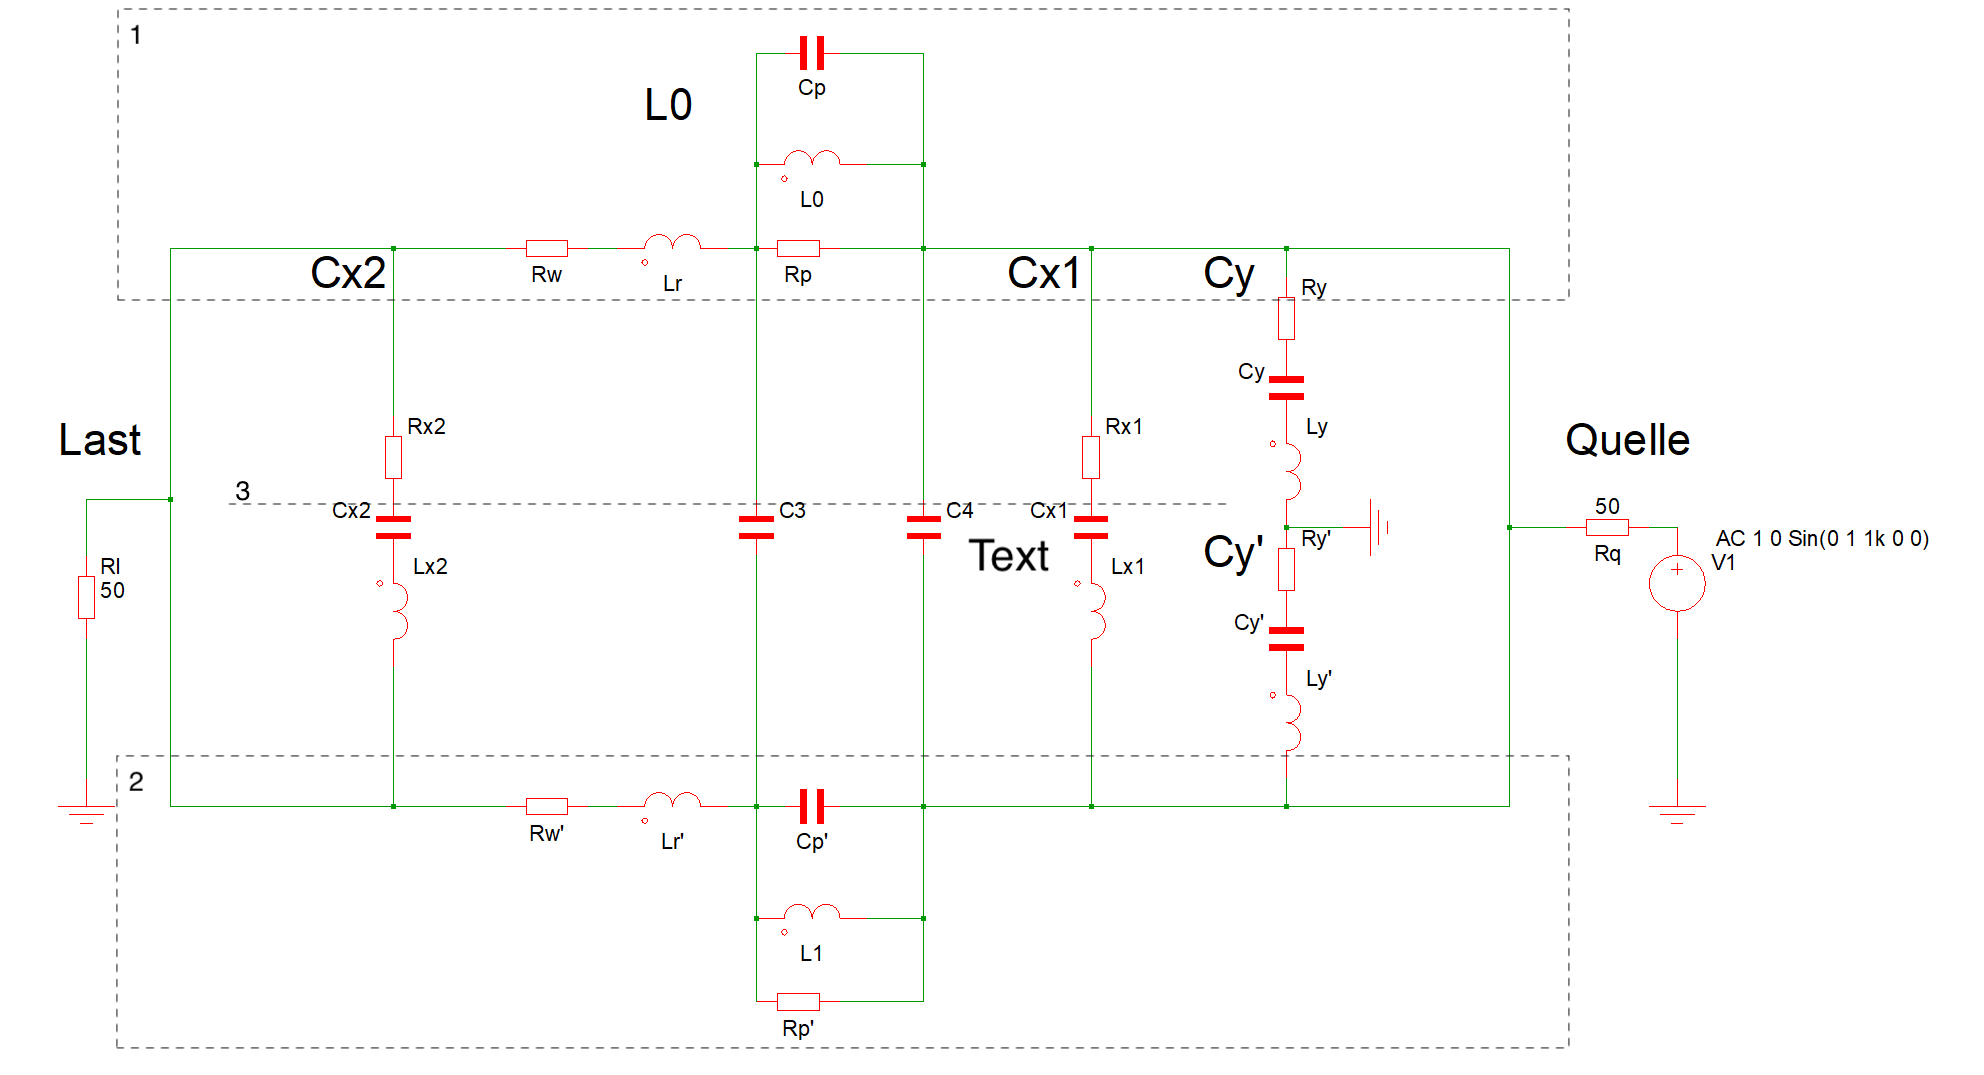
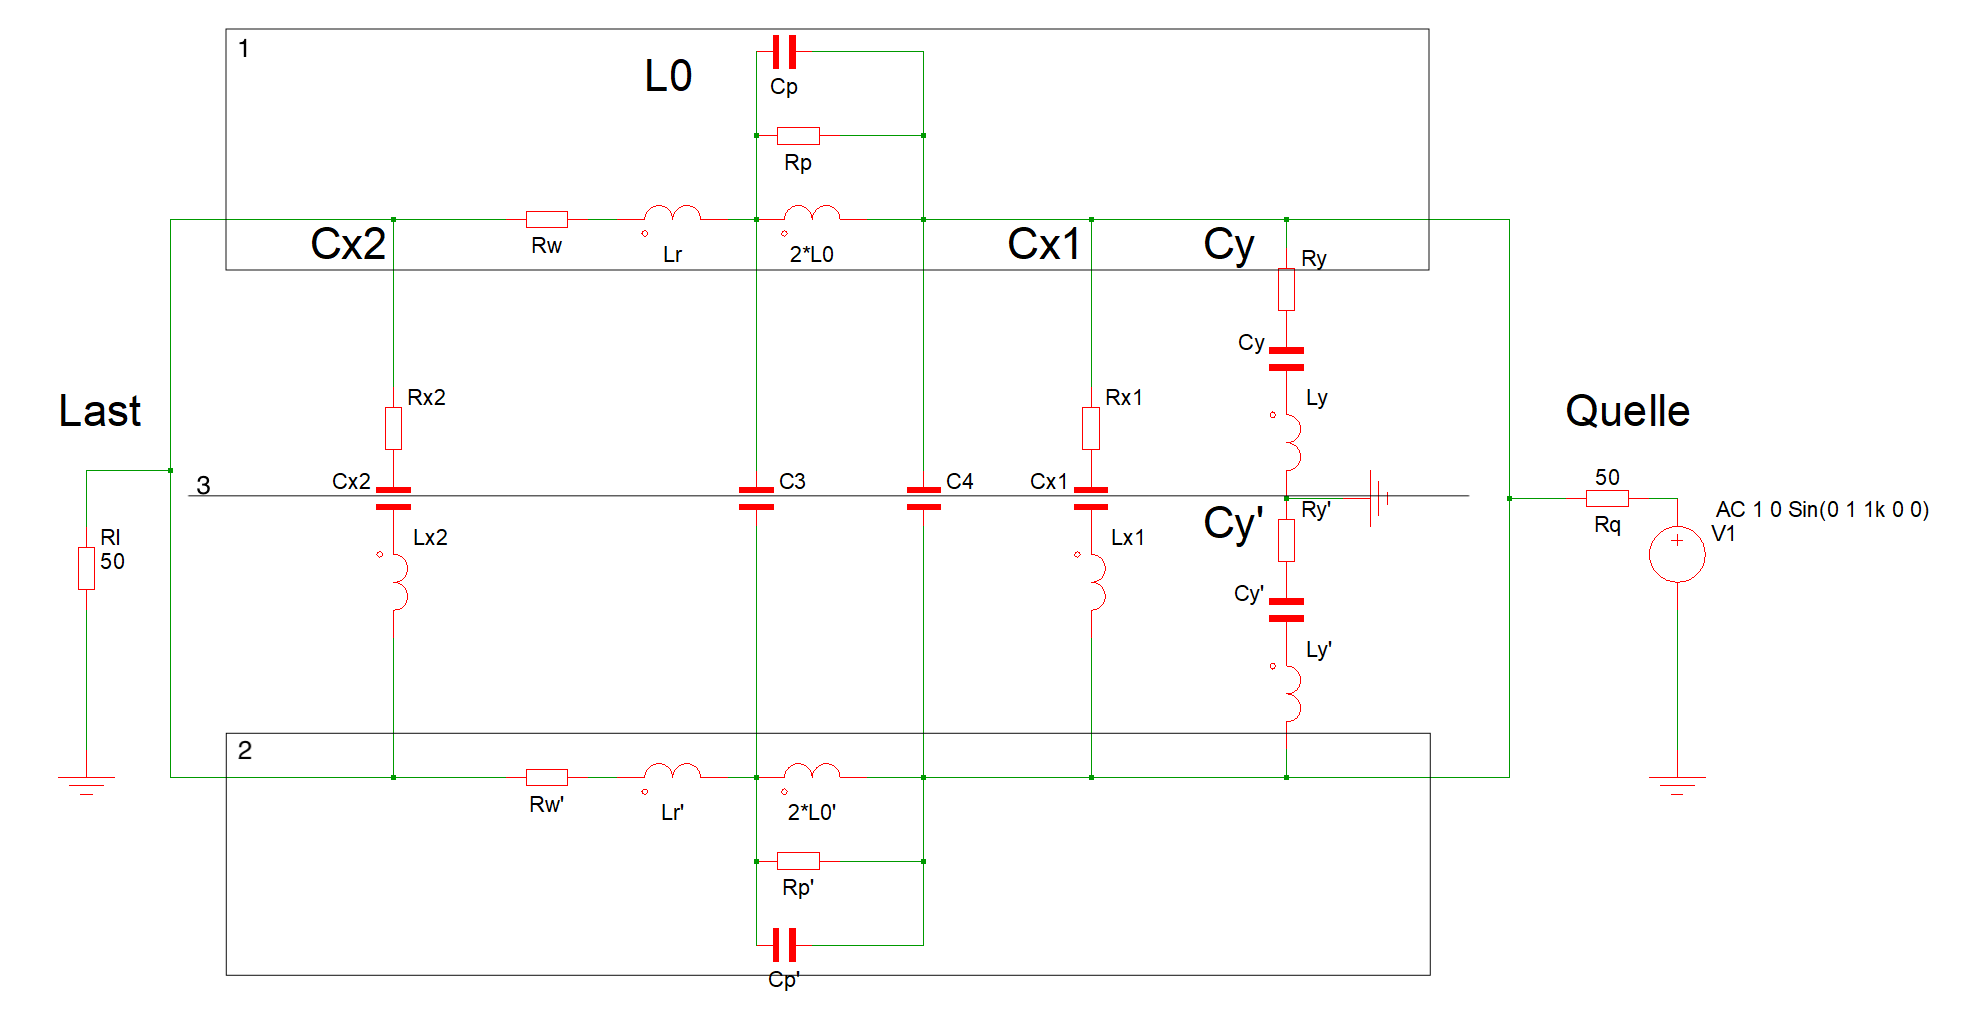
Teil Umsetzung komplett überarbeitet

diff --git a/Fachbericht/sections/3_Umsetzung/Umsetzung.tex b/Fachbericht/sections/3_Umsetzung/Umsetzung.tex
@@ -1,15 +1,11 @@
-\section{Umsetzung} \label{sec:umsetzung}
-Mithilfe der Grundlagen aus Kapitel 2\ref{sec:grundlagen} wird nun erläutert, wie aus der Schaltung des EMI-Filters mithilfe der Auftrennung in eine Gegentakt - und eine Gleichtaktschaltung die Einfügedämpfung(engl. Insertion Loss, IL) berechnet wird. 
-
-\subsection{Berechnung der Einfügedämpfung} \label{subsec:einfugedampfung}
-
-Die ursprüngliche Schaltung wird in eine Gleich- und Gegentschaltung aufgetrennt. Dieses Prinzip ist eine gängige Methode, da so Symmetrien entstehen, welche vereinfacht werden können. Für die beiden Ersatzschaltungen, werden jeweils als Kettenmatrizen \ref{Kettenmatrix} gebildet. Diese bestehen widerum aus Kettenmatrizen der einzelnen Längs- und Querimpedanzen. Aus der Kettenmatrix für die Ersatzschaltbilder wird mithilfe der Streuparameter direkt die Einfügungsdämpfung berechnet. Kettenmatrizen werden durch eine Kaskadierung vorgenommen, dies entspricht im wesentlichen der Matrixmultiplikation. \\
+\section{Ermitteln der Einfügedämpfung} \label{sec:umsetzung}
+In diesem Kapitel wird ausführlich beschrieben, wie aus den gegebenen Gleich- und Gegentaktschaltung (Verweis Aufgabenstellung) die Einfügedämpfung ermittelt wird. Um die einzelnen Schritte konsistent zu beschriebenen, wird an den entsprechenden Stellen Bezug auf die theoretischen Grundlagen Kapitel \ref{sec:Grundlagen} genommen. Der erste Abschnitt behandelt die Gleichtaktschaltung und in einem zweiten Abschnitt wird die Gegentaktschaltung behandelt. In diesen beiden Kapitel wird beschrieben, wie aus den Schaltungen aus der Aufgabenstellung die Kettenmatrizen der beiden Schaltungen ermittelt wird. Im Kapitel (verweis) ist beschrieben, wie aus den Kettenmatrizen die Einfügedämfung berechnet wird.
 
 
-\paragraph{Zusammenfassen der Schaltungen} \label{par:zusammenfassungSchaltung}
-Folgendes Kapitel zeigt Schritt für Schritt auf, wie die gegebenen Schaltungen vereinfacht werden können. Zudem wird beschrieben welche Komponenten vernachlässigt werden können. Der erste Abschnitt behandelt die Gleichtaktschaltung und in einem zweiten Abschnitt wird die Gegentaktschaltung behandelt.
+\subsection{Gleichtaktschaltung}\label{subsec:zusammenfassungGleichtakt}
+Um die Einfügedämpfung zu ermitteln, wird im ersten Schritt die Schaltung weitgehend vereinfacht. Die reduzierte Schaltung wird anhand der Kettenmatrix (siehe \ref{subsec:Kettenmatrix}) beschrieben. Aus der Kettenmatrix wird dann für den vorgegebenen Frequenzbereich die Einfügedämpung berechnet.
 
-\paragraph{Gleichtaktschaltung}\label{para:zusammenfassungGleichtakt}
+\paragraph{Reduktion der Schaltung}\label{para:redukGleichtakt}
 Abbildung \ref{fig:CMSchaltungOriginal} zeigt die Schaltung aus der Aufgabenstellung. 
 \begin{figure}[H]
 	\centering
@@ -17,22 +13,55 @@ Abbildung \ref{fig:CMSchaltungOriginal} zeigt die Schaltung aus der Aufgabenstel
 	\caption{Originale Gleichtaktschaltung\cite{aufgabenstellung}}
 	\label{fig:CMSchaltungOriginal}
 \end{figure}
-Die Originalschaltung ist mit den Komponenten $R_w$ und $L_r$ ergänzt worden, sodass sie symmetrisch ist(siehe Abbildung \ref{fig:CMSchaltungErgänzt}). Dies macht es möglich, dass die Schaltung zur Simulation wie folgt vereinfacht werden kann.
+Die Originalschaltung wird mit den Komponenten $R_w$ und $L_r$ ergänzt, sodass sie symmetrisch ist. Dies macht es möglich, dass die Schaltung weiter vereinfacht werden kann. Zudem wurden $C_1$ und $C_2$ in $C_p$ und $C'_p$ umbenannt um zu zeigen, dass es sich um die gleiche Kapazität handelt. Durch weglassen des Eisenkerns, wird $L_0$ und $L'_0$ mit dem Vorfaktor zwei ergänzt da sich die Magnetfelder überlagern. %TODO besser schreiben%
+Durch diese Änderungen ergibt sich die Schaltung in Abbildung \ref{fig:CMSchaltungErgänzt}.
 \begin{figure}[H]
 	\centering
 	\includegraphics[width = 15cm]{EMI_CMpretty1.png}
 	\caption{Ergänzte Gleichtaktschaltung}
 	\label{fig:CMSchaltungErgänzt}
 \end{figure}
-Da der obere (siehe Abbildung \ref{fig:CMSchaltungErgänzt}, Nr. 1) und untere Strang (siehe Abbildung \ref{fig:CMSchaltungErgänzt}, Nr. 2) identisch sind und es keinen Potentialunterschied zwischen ihnen gibt, kann die Schaltung, wie folgt, zusammen gefasst werden (siehe Abbildung \ref{fig:CMSchaltungvereinfacht}). Die Schaltung wird entlang der Symmetrie-Achse (siehe Abbildung \ref{fig:CMSchaltungErgänzt}, Nr. 3) aufgetrennt. Somit fallen die Kondensatoren $C_3$, $C_4$, $C_{x1}$ und $C_{x2}$ komplett weg. Die übrigen Komponenten von $L_0$ bilden eine Parallelschaltung, welche sich durch halbieren der Widerstände und Induktivitäten und verdoppeln der Kapazitäten zusammenfassen lässt. Zusätzlich werden die beiden $C_y$ und $C'_{y}$ parallel auf das Bezugspotential geschalten. Da $C_y$ und $C'_y$ identisch sind, werden sie wie in Abbildung \ref{fig:CMSchaltungvereinfacht} zusammengefasst. Diese vereinfachte Schaltung bildet die Grundlage für die Berechnungen der Software.
+ Der obere Strang(siehe Abbildung \ref{fig:CMSchaltungErgänzt}, Nr. 1) und untere Strang (siehe Abbildung \ref{fig:CMSchaltungErgänzt}, Nr. 2) sind identisch. Da es keinen Potentialunterschied zwischen ihnen gibt, kann die Schaltung entlang der Symmetrie-Achse (siehe Abbildung \ref{fig:CMSchaltungErgänzt}, Nr. 3) aufgetrennt werden. Dies ergibt die Schaltung in Abbildung \ref{fig:CMSchaltungaufgetrennt}.
+
 \begin{figure}[H]
 	\centering
 	\includegraphics[width = 10cm]{EMI_CMpretty2.png}
+	\caption{Aufgetrennte Gleichtaktschaltung}
+	\label{fig:CMSchaltungaufgetrennt}
+\end{figure}
+Komponenten die nicht mehr fest verbunden sind, fallen weg. Dies gilt für die Kondensatoren $C_3$, $C_4$, $C_{x1}$ und $C_{x2}$. Die weiter reduzierte Schaltung wird in Abbildung \ref{fig:CMSchaltungvereinfacht1} abgebildet.
+\begin{figure}[H]
+	\centering
+	\includegraphics[width = 10cm]{EMI_CMpretty3.png}
 	\caption{Vereinfachte Gleichtaktschaltung}
+	\label{fig:CMSchaltungvereinfacht1}
+\end{figure}
+Die übrigen Komponenten von $L_0$ bilden eine Parallelschaltung, welche sich durch halbieren der Widerstände und Induktivitäten und verdoppeln der Kapazitäten zusammenfassen lässt. Zusätzlich werden die beiden $C_y$ und $C'_{y}$ parallel auf das Bezugspotential geschalten. Da $C_y$ und $C'_y$ identisch sind, werden sie wie in Abbildung \ref{fig:CMSchaltungvereinfacht} zusammengefasst. Diese vereinfachte Schaltung bildet die Grundlage für die Berechnungen der Software.
+
+\begin{figure}[H]
+	\centering
+	\includegraphics[width = 10cm]{EMI_CMpretty.png}
+	\caption{komplett reduzierte Gleichtaktschaltung}
 	\label{fig:CMSchaltungvereinfacht}
 \end{figure}
 
-\paragraph{Gegentaktschaltung}\label{para:zusammenfassungGegentakt}
+\paragraph{Bilden der Kettenmatrix}\label{para:kettenGleichtakt}
+Damit die Kettenmatrix der Gesamtschaltung gebildet werden kann, wird in einem ersten Schritt die reduzierte Schaltung in Längs- und Querimpedanzen (siehe Kapitel \ref{subsec:kettenmatrix} eingeteilt. Diese werden in Abbildung \ref{fig:cmschaltung} mit den Kennzeichnungen „QI“ und „LI“ vermerkt wobei „QI“ für Querimpedanz steht und „LI“ für Längsimpedanz. Die Impedanzen der einzelnen Schaltungsteile werden in die Kettenmatrizen für Quer- und Längsimpedanz eingesetzt. Die Kettenmatrizen werden durch Kaskadierung zur Kettenmatrix der Gesamtschaltung zusammengefasst.
+\begin{figure}[H]
+		\centering
+		\includegraphics[width = 10cm]{EMI_CMvereinfacht_markiert.png}
+		\label{fig:cmschaltung}
+		\caption{Einteilung der Gleichtaktschaltungteile}
+\end{figure}
+Anhand der Kettenmatrix der Gesamtschaltung kann die Einfügedämpfung direkt ermittelt werden, indem mit der Formel \ref{equ:s21ausAMatrix} der Streuparameter $S_{21}$ berechnet wird(siehe Kapitel Einfügedämpfung). $R_w$ ist die Bezugsimpedanz. Die Bezugsimpedanz bezieht sich auf die Innenimpedanz der Quelle und die Lastimpedanz. Bezüglich der Aufgabenstellung(Verweis Aufgabenstellung) ist dieser auf 50Ohm festgelegt.
+
+\begin{equation}\label{equ:s21ausAMatrix}
+s_{21} = \frac{2}{A_{11}+\frac{A{12}}{R_w}+A_{21}*R_w+A_{22}}
+\end{equation}
+
+
+\subsection{Gegentaktschaltung}\label{subsec:zusammenfassungGegentakt}
+\paragraph{Reduktion der Schaltung}\label{para:redukGegentakt}
 Folgender Abschnitt legt Schritt für Schritt dar, wie die Gegentaktschaltung vereinfacht wird. Die Abbildung \ref{fig:DMSchaltungAufgabenstellung} zeigt die Originalschaltung, wie Sie der Aufgabenstellung entnommen wurde. In einem ersten Schritt wird die gekoppelte Spule (Im Bild L0) vereinfacht. Die Magnetfelder der beiden Induktivitäten L0 kompensieren sich gegenseitig. Sie fallen weg, da sie Niederohmig werden. Somit verschwindet L0 mit den parasitären Elementen C1, C2 und die beiden Widerstände Rp.
 \begin{figure}[H]
 	\centering
@@ -62,16 +91,9 @@ Der obere und untere Teil der aufgetrennten Schaltung sind weitgehend identisch.
 	\label{fig:DMSchaltungvereinfacht}
 \end{figure}
 
-\paragraph{Rückwandlung} \label{par:ruckwandlung}
-
-Die Kettenmatrizen führen dazu, dass die einzelnen Schaltungsteile entweder eine Längs-, oder eine Querimpedanz bilden müssen. Die Aufteilung der einzelnen Schaltungsteile in Längs- und  Querimpedanzen und ist in den Abbildungen (Verweis Aufteilung 1 und 2) grafisch dargestellt, wobei „LI“ eine Längsimpedanz kennzeichnet und „QI“ eine Querimpedanz.
-\begin{figure}[H]
-		\centering
-		\includegraphics[width = 10cm]{EMI_CMvereinfacht_markiert.png}
-		\label{fig:cmschaltung}
-		\caption{Einteilung der Gleichtaktschaltungteile}
-\end{figure}
-
+\paragraph{Bilden der Kettenmatrix}\label{para:kettenGegentakt}
+Abbildung \ref{fig:dmschaltung} zeigt die Einteilung der reduzierten Schaltung in Längs- und Querimpedanzen.
+ 
 \begin{figure}[H]
 		\centering
 		\includegraphics[width = 10cm]{EMI_DMvereinfacht_markiert.png}
@@ -80,15 +102,6 @@ Die Kettenmatrizen führen dazu, dass die einzelnen Schaltungsteile entweder ein
 \end{figure}
 
 Im nächsten Schritt werden die Impedanzen der einzelnen Schaltungsteile gebildet, welche in die passenden Kettenmatrizen eingesetzt werden.
-
-\begin{equation}\label{equ:s21ausAMatrix}
-s_{21} = \frac{2}{A_{11}+\frac{A{12}}{R_w}+A_{21}*R_w+A_{22}}
-\end{equation}
+Wiederum durch Kaskadierung der einzelenen Kettenmatrizen wird die Kettenmatrix der Gesamtschaltung gebildet. Aus der Kettenmatrix wird, wie bei der Gleichtaktschaltung die Einfügedämpfung berechnet. Ein wichtiger Unterschied ist jedoch, dass bei der reduzierten Gegentaktschaltung (Abbildung \ref{fig:dmschaltung}) $R_w$ 25Ohm ist. 
 
 
-
-Anhand der Kettenmatrizen der beiden Schaltungen, wird mit der Formel \ref{equ:s21ausAMatrix} der Streuparameter $S_{21}$ berechnet. A1 bis A4 entsprechen den einzelnen Einträge der Matrix. $R_w$ ist die Bezugsimpedanz. Die Bezugsimpedanz bezieht sich auf die Innenimpedanz der Quelle und die Lastimpedanz. Bezüglich der Aufgabenstellung(Verweis Aufgabenstellung) ist dieser auf 50Ohm festgelegt. Ausserdem ist es wichtig, dass die beiden Impedanzen gleich gross sind damit die Schaltung Reziprok ist (Verweis Theoretische Grundlagen: Reziproke Schaltungen). (Wieso ?) 
-Bei der reduzierten Gegentaktschaltung (Abbildung \ref{fig:dmschaltung}) werden die beiden Impedanzen mit 25Ohm aufgeführt. Dies ergibt sich durch das Zusammenfassen der Gegentaktschaltung.\\
-
-
-Die Berechnungen werden in MATLAB getätigt und geplottet. Diese Plots werden dann mit Simulationen in MPLAB Mindi verglichen um festzustellen ob diese korrekt sind. Nach überprüfung auf vollständikeit und korrektheit der Berechnungen, können diese in das Java implementiert werden. 
